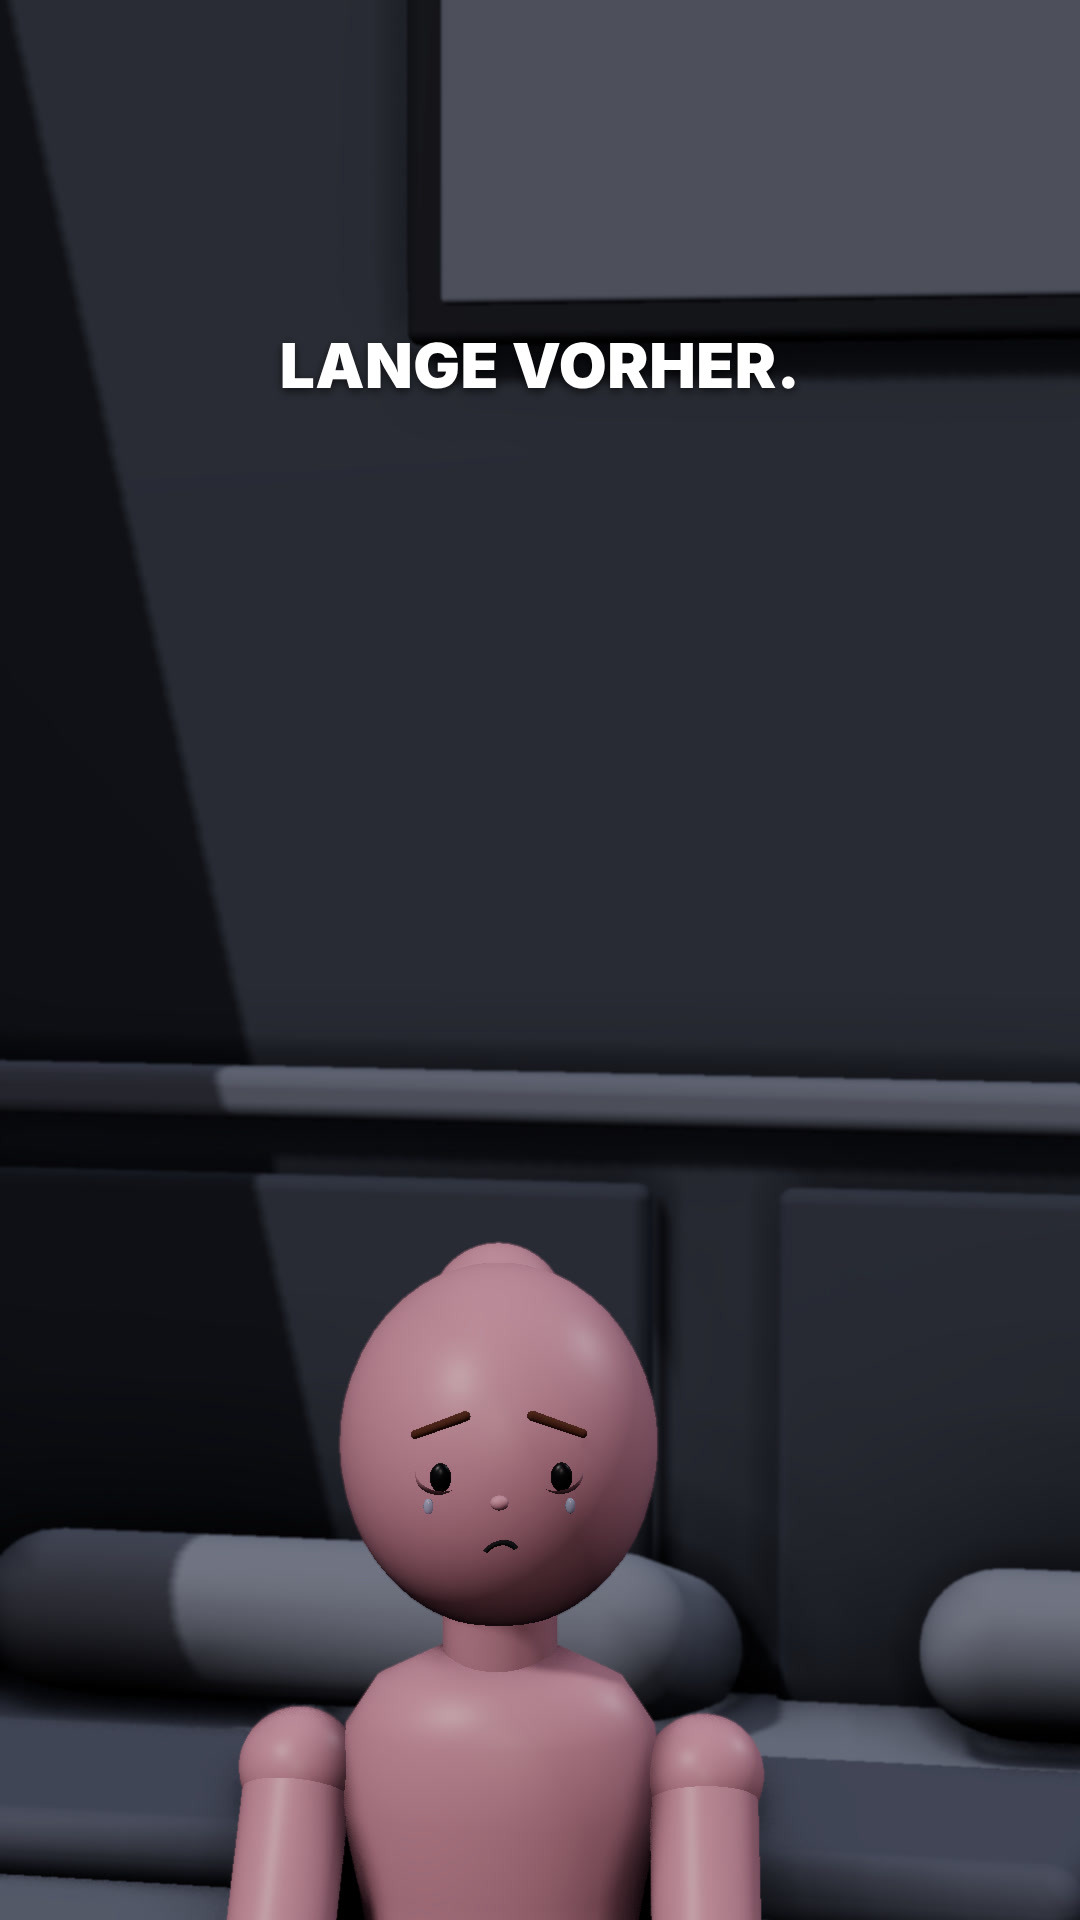
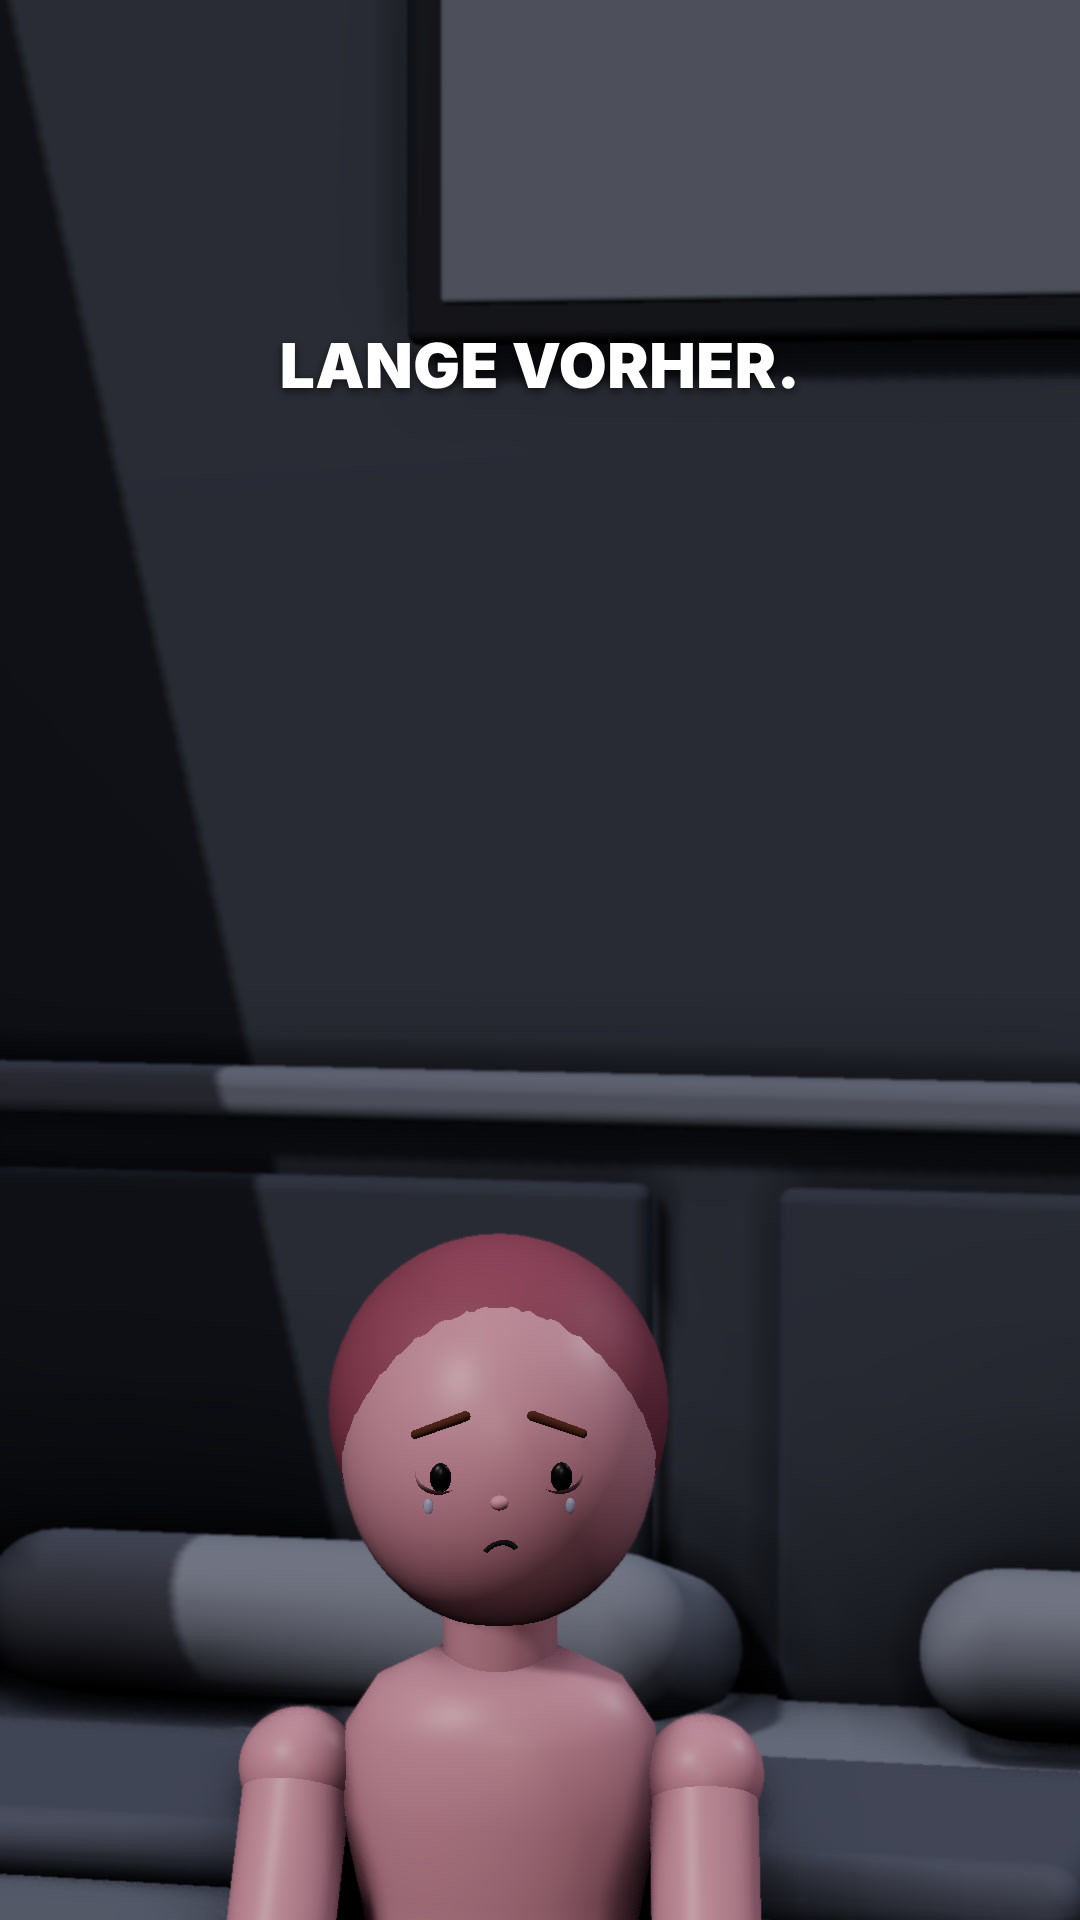
Replace bun with hair volume and a ponytail
Claude-Session: https://claude.ai/code/session_01FQFJKx8X2643G2hLZWtcZT

Changed region(s): [[0.3056, 0.625, 0.6417, 0.7812]]

diff --git a/manikin_style/clay/lib/figure.js b/manikin_style/clay/lib/figure.js
@@ -172,7 +172,16 @@ function buildManikin(J, isW) {
     ball(J['an' + k], isW ? 0.034 : 0.043, FM, 0, -0.022, 0.045, 0.9, 0.6, 1.75);
   }
   ball(J.head, R, FM, 0, 0, 0, 0.92, 1.06, 0.97);
-  if (isW) ball(J.head, R * 0.4, FM, 0, R * 0.62, -R * 0.74);            // bun
+  if (isW) {                                                            // hair: cap + ponytail
+    const HM = new THREE.MeshStandardMaterial({ color: '#a65d70', roughness: 0.6, metalness: 0 });
+    // hair volume: a sphere a bit larger than the head, shifted back and up; where it meets the head it forms the hairline
+    ball(J.head, R * 1.02, HM, 0, R * 0.16, -R * 0.2, 0.97, 1.0, 1.0);
+    // ponytail: tie + tapered tail hanging down the back
+    const tail = new THREE.Group(); tail.position.set(0, R * 0.3, -R * 1.1); tail.rotation.x = 0.22; J.head.add(tail);
+    ringM(tail, R * 0.16, R * 0.065, 0, HM);
+    const prof = [[0.001, 0.02], [0.2, 0.0], [0.28, -0.25], [0.26, -0.7], [0.17, -1.15], [0.06, -1.45], [0.001, -1.48]].map(([r, y]) => new THREE.Vector2(r * R, y * R));
+    const pt = M(new THREE.LatheGeometry(prof, 32), HM, tail); pt.scale.set(1, 1, 0.82);
+  }
   J.head.traverse(o => { if (o.isMesh && (o.material === MAT.skin || o.material === MAT.skinSh)) o.material = FM; });
   J.manikin = true;
 }

diff --git a/manikin_style/clay/lib/shots.js b/manikin_style/clay/lib/shots.js
@@ -7,6 +7,16 @@ const WORRY = { brow: 0.7, mouth: -0.35, lid: 0.2, look: [0, -0.2] };
 const BLANK = { brow: 0.1, mouth: -0.1, lid: 0.45, look: [0, -0.9] };
 
 export const SHOTS = {
+  dbg: {
+    set: 'minimal', cap: '',
+    fig: [{ kind: 'w', at: [0, 0], yaw: Math.PI / 2, pose: POSES.stand, face: SAD }],
+    cam: { pos: [0, 0.95, 2.2], look: [0, 0.9, 0], fov: 22 },
+  },
+  side: {
+    set: 'minimal', cap: 'Sie hört auf zu fragen.',
+    fig: [{ kind: 'w', at: [-0.1, -0.1], yaw: 1.75, pose: mix(POSES.armsCrossed, { head: [0.3, 0, 0] }), face: SAD }],
+    cam: { pos: [0.9, 1.05, 2.5], look: [-0.1, 0.9, -0.1], fov: 26 },
+  },
   stand2: {
     set: 'minimal', cap: 'zieht sich irgendwann zurück.',
     fig: [

diff --git a/manikin_style/README.md b/manikin_style/README.md
@@ -22,3 +22,5 @@ MONO=1 CAPS='{"sofa":"Eine Frau, die keine Nähe mehr bekommt,"}' NODE_PATH=$(np
 
 ## v6 (`frames_color/`)
 Гладкие манекены одного цвета: она розовая (#dc9eac), он синий (#7f9dcc). Туловище — одна плавная форма (lathe), без шаров на локтях и коленях; у неё пучок, талия, бёдра; у него широкие плечи.
+
+Волосы у неё: объём + хвостик на резинке (вместо пучка).
